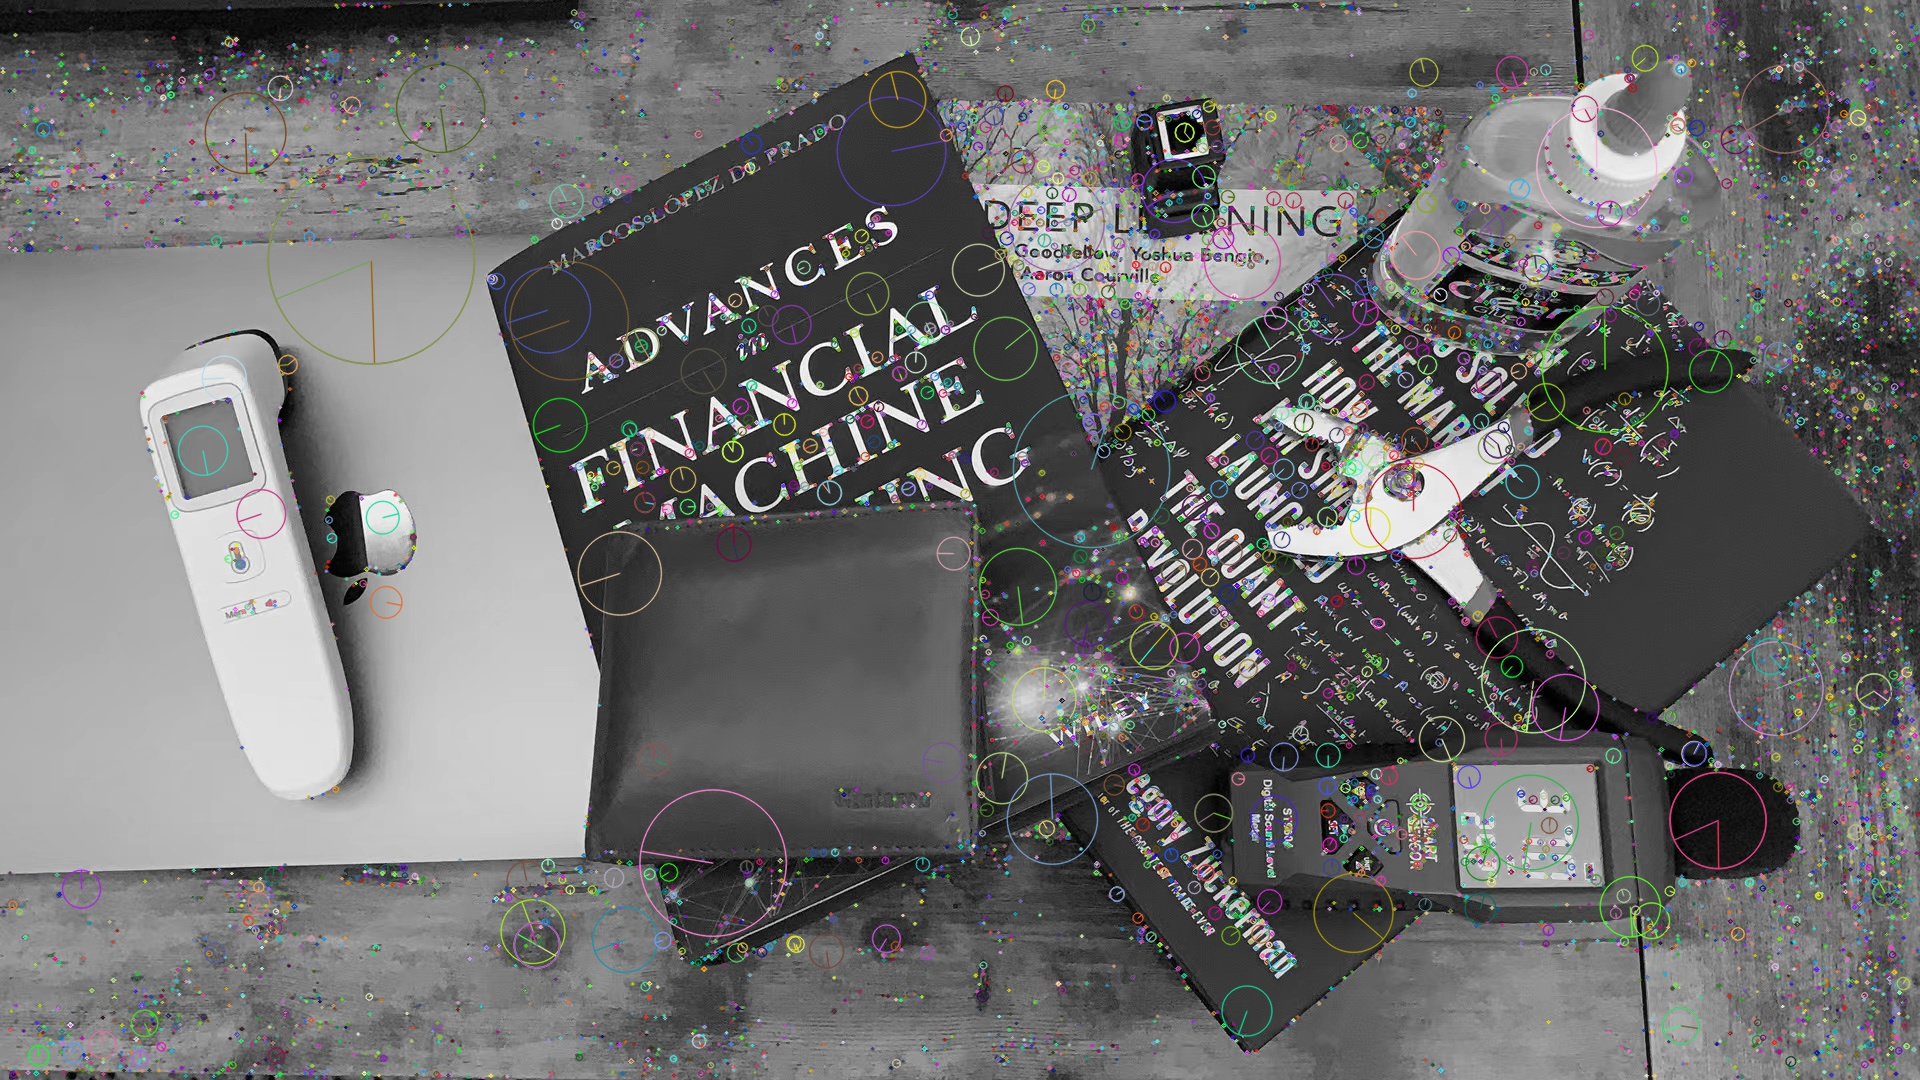
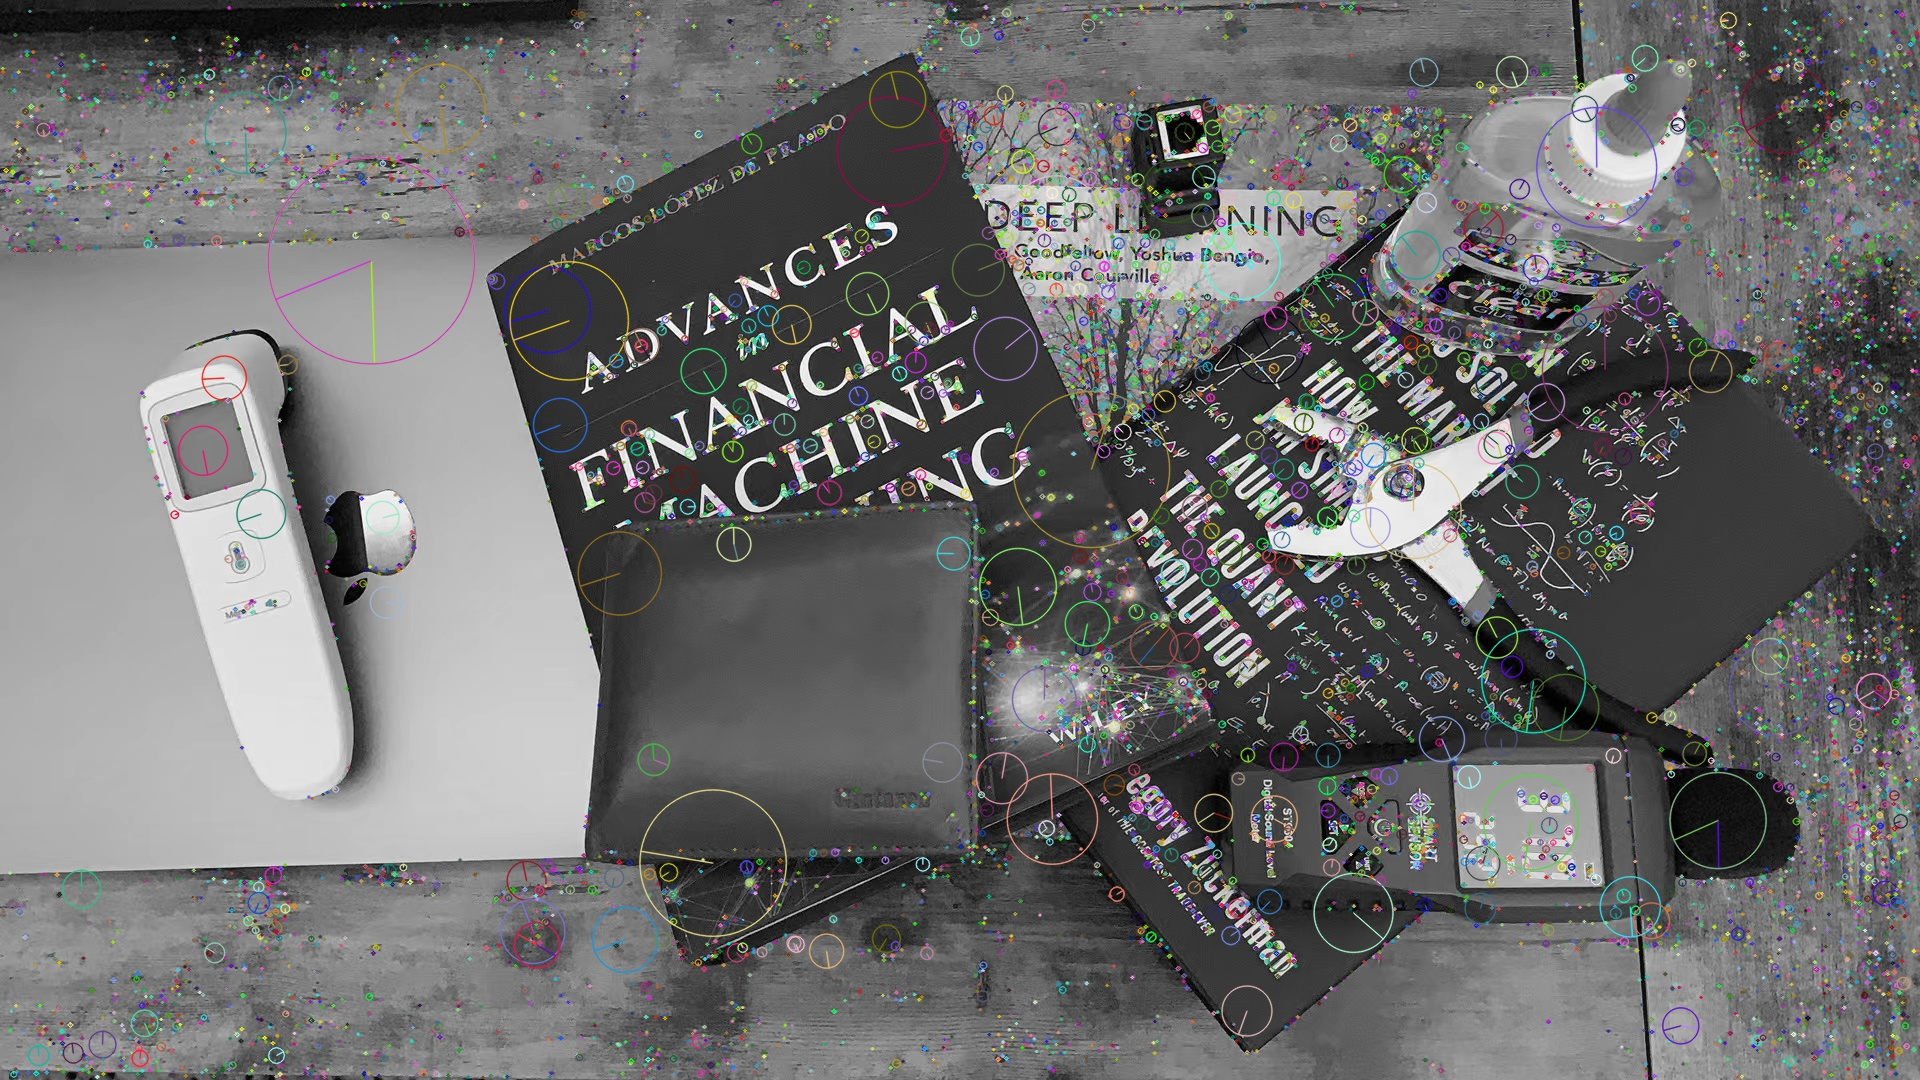
2nd version

diff --git a/sift_ransac.py b/sift_ransac.py
@@ -19,9 +19,9 @@ def sift_generator(img, img_id):
   #cv2.drawKeypoints(gray, keypoints, img)
 
   
-  # # show the image
-  cv2.imshow('image', sift_image)
-  cv2.waitKey()
+  # # # show the image
+  # cv2.imshow('image', sift_image)
+  # cv2.waitKey()
 
 
   # save the image
@@ -104,9 +104,10 @@ def main():
 
           good = matcher(desc_src, desc_dst)
 
-          img_match = cv2.drawMatches(img_src,key_src,img_dest,key_dst,good,None,flags=cv2.DrawMatchesFlags_NOT_DRAW_SINGLE_POINTS)
+          img_match = cv2.drawMatches(img_src,key_src,img_dest,key_dst,good,None,flags=cv2.DRAW_MATCHES_FLAGS_DRAW_RICH_KEYPOINTS)
+          img_match_show = cv2.drawMatches(img_src,key_src,img_dest,key_dst,good[0:21],None,flags=cv2.DRAW_MATCHES_FLAGS_DRAW_RICH_KEYPOINTS)
 
-          cv2.imwrite("Results/src_"+img_id[-1]+"_dst_"+dest_id[-1]+"_all_matches.jpg", img_match)
+          cv2.imwrite("Results/src_"+img_id[-1]+"_dst_"+dest_id[-1]+"_all_matches.jpg", img_match_show)
           # cv2.imshow("image", img_match)
           # cv2.waitKey()
 
@@ -116,7 +117,7 @@ def main():
                             singlePointColor = None,
                             matchesMask = matchesMask, # draw only inliers
                             flags = 2)
-          final_img = cv2.drawMatches(img_src,key_src,img_dest,key_dst,good,None,**draw_params)
+          final_img = cv2.drawMatches(img_src,key_src,img_dest,key_dst,good,None,flags=cv2.DRAW_MATCHES_FLAGS_DRAW_RICH_KEYPOINTS,**draw_params)
           cv2.imwrite("Results/src_"+img_id[-1]+"_dst_"+dest_id[-1]+"_ransac_homography.jpg", final_img)
           
           # cv2.imshow('image', final_img)
